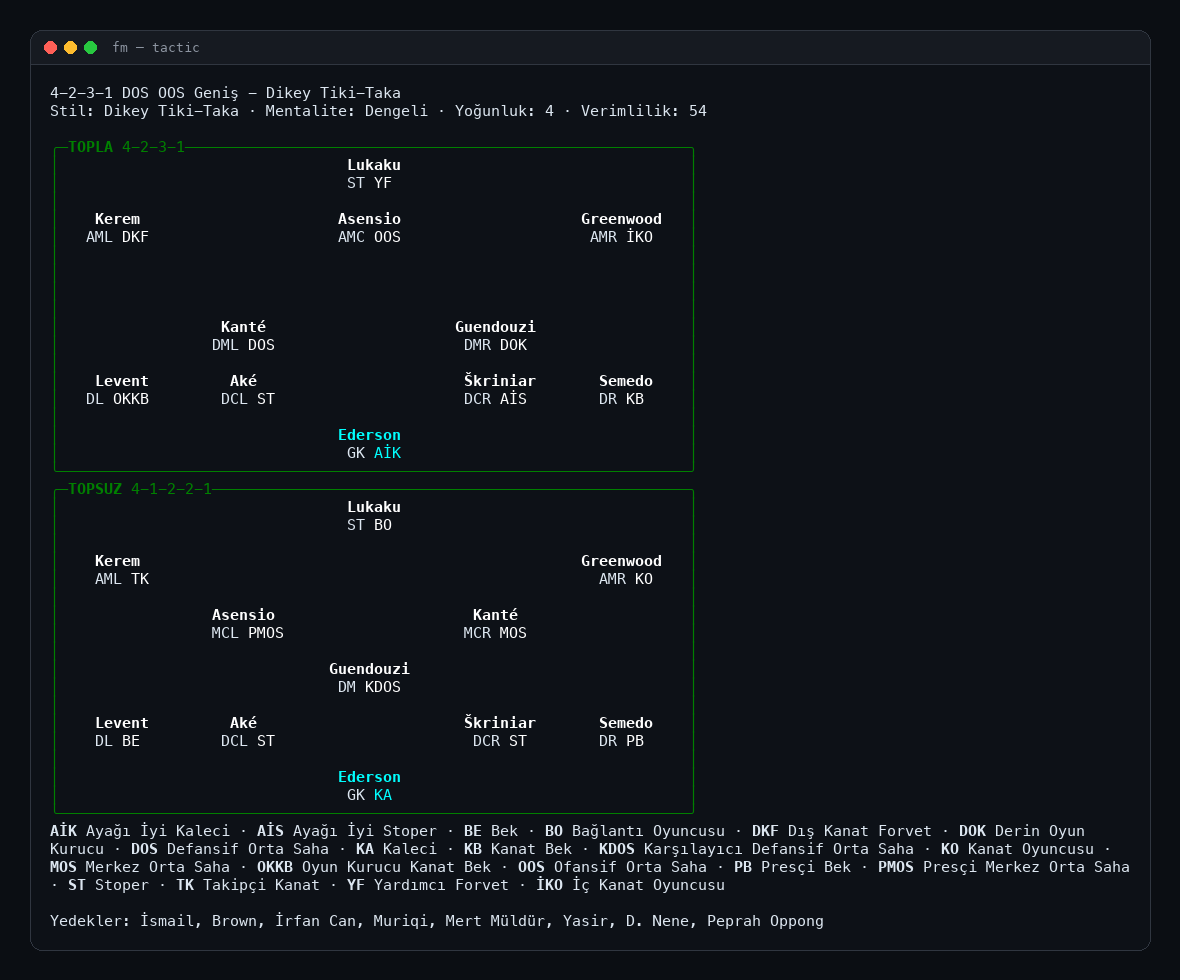
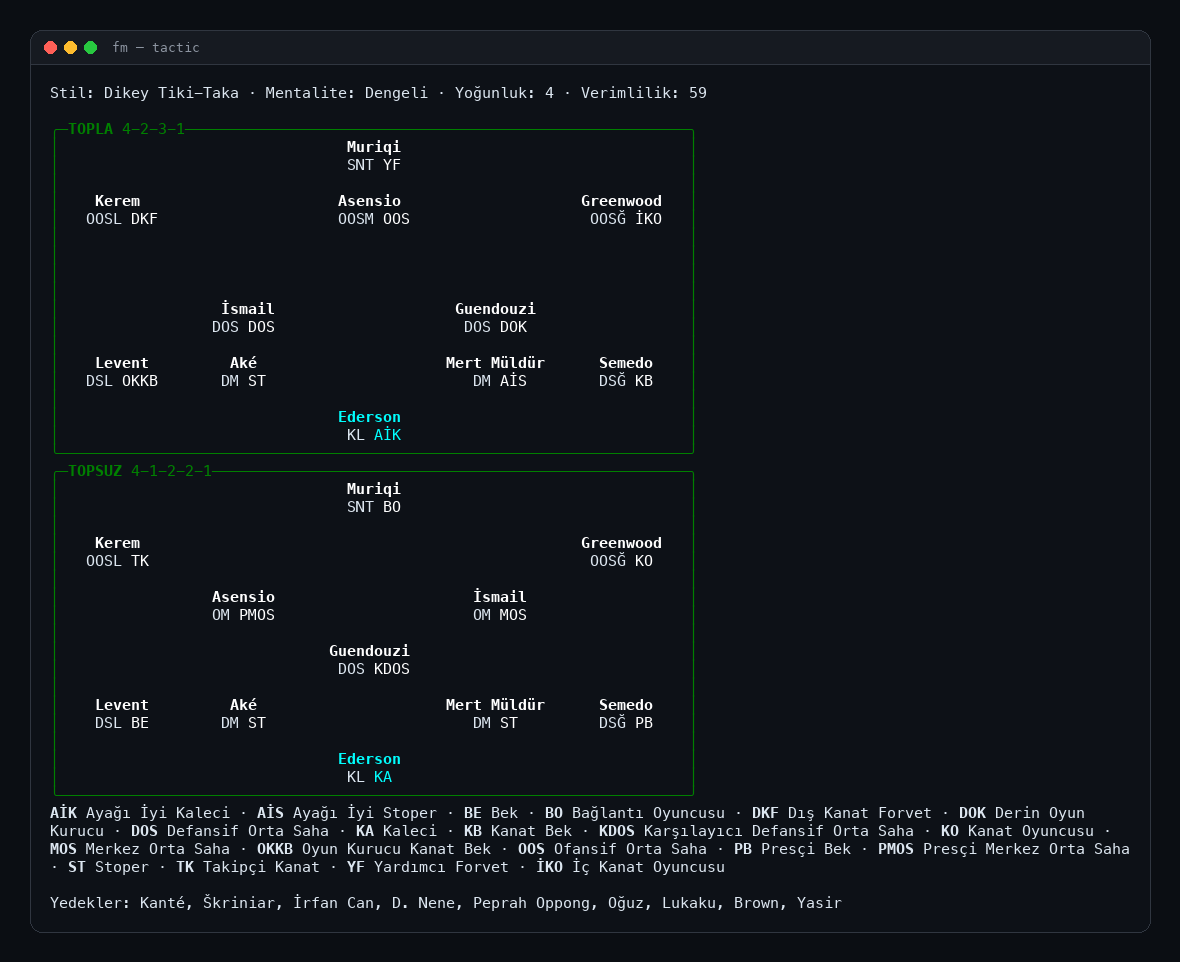
feat: tactic positions in the game's own codes, typed either way
The tactic table, the pitch, slot lists and player instructions show a position as the
game writes it (OOSM, DM; AMC, DCR in English). A paired slot's side has no code in the game
and is said in the CLI's words ("DM (sağ)"); the pitch leaves it to the lane. Positions are
typed in the game's code first, then the English one, or by number: "DM" in a Turkish game
is the two centre-backs. Game codes are kept out of the line translation, which had turned
the Turkish "DM" into "DOS"; the phase words, fixed Turkish before, go through labels.

diff --git a/cli/fm/Match/Guided.TacticSettings.cs b/cli/fm/Match/Guided.TacticSettings.cs
@@ -94,16 +94,17 @@ internal static partial class Program
 		{
 			var roleField = withoutBall ? "OOPRoleName" : "IPRoleName";
 			if (Ui.Ask(L("Which position?"), SlotLabels(slots, roleField)) is not { } asked) return 0;
-			words.Add(spots[asked]);
+			words.Add((asked + 1).ToString());
 		}
+		var masks = slots.Select(s => Field(s, "IPPosition")).ToList();
 		if (words.Count == 0)
 		{
-			Console.Error.WriteLine(L($"usage: tactic role <position> [<role>] [--oop]   positions: {string.Join(" ", spots)}"));
+			Console.Error.WriteLine(L($"usage: tactic role <position> [<role>] [--oop]   positions: {string.Join(" ", masks.Select(m => SpotShown(m)))}"));
 			return 64;
 		}
 
-		if (Choose(spots, words[0], L("Position")) is not { } spot) return 1;
-		var at = spots.IndexOf(spot);
+		if (SlotOf(masks, words[0], L("Position")) is not { } at) return 1;
+		var spot = SpotShown(masks[at]);
 
 		List<JsonElement> lists = [];
 		await Until(async () =>
@@ -153,7 +154,7 @@ internal static partial class Program
 			return 1;
 		}
 
-		var phase = withoutBall ? "topsuz" : "topla";
+		var phase = withoutBall ? L("out of possession") : L("in possession");
 		if (words.Count < 2 && Ui.Interactive)
 		{
 			if (Ui.Ask(L($"Role of {spot} ({phase})"), roles, roles.IndexOf(current)) is not { } asked) return 0;
@@ -319,6 +320,57 @@ internal static partial class Program
 		if ((bits & 1048576) != 0) name += "L";
 		if ((bits & 2097152) != 0) name += "R";
 		return name;
+	}
+
+	/// <summary>
+	/// A pitch position as the game writes it in its language ("OOSM"), by the engine's own codes
+	/// (<see cref="EngineTexts.Positions"/>, read before). The game's codes do not say which side of
+	/// centre a paired slot stands on (DCL, DCR, STL…); that is said in the CLI's own words. In an
+	/// English game, or before the codes are read, the CLI's code as it always was. On the pitch the
+	/// lane says the side, and <paramref name="side"/> leaves it out.
+	/// </summary>
+	internal static string SpotShown(string mask, bool side = true)
+	{
+		var known = EngineTexts.KnownPositions;
+		if (known.Count == 0 || !long.TryParse(mask, out var bits)) return Spot(mask);
+		var left = (bits & (1048576 | 65536)) != 0;
+		var right = (bits & (2097152 | 32768)) != 0;
+		var central = bits & ~(1048576L | 2097152L);
+		if ((central & (32768 | 65536)) != 0) central = (central & ~(32768L | 65536L)) | 16384;
+		var code = Spot(central.ToString(System.Globalization.CultureInfo.InvariantCulture));
+		var shown = known.GetValueOrDefault(code, code);
+		return !side ? shown : left ? shown + L(" (left)") : right ? shown + L(" (right)") : shown;
+	}
+
+	/// <summary>
+	/// The slot a typed position stands for: its number in the listing, the game's code as shown
+	/// ("OOSM", "DM sağ"), the game's code of a pair when only one slot has it, else the CLI's English
+	/// code ("AMC", "DCR"). The game's words come first: "DM" is a centre-back in a Turkish game and a
+	/// defensive midfielder in English. Null, with the options said, when it stands for none or several.
+	/// </summary>
+	private static int? SlotOf(List<string> masks, string typed, string what, bool quiet = false)
+	{
+		static string Squash(string text) => new(Fold(text).Where(char.IsLetterOrDigit).ToArray());
+		var shown = masks.Select(m => SpotShown(m)).ToList();
+		var english = masks.Select(Spot).ToList();
+		var wanted = Squash(typed);
+		if (int.TryParse(typed, out var number) && number >= 1 && number <= masks.Count) return number - 1;
+		if (shown.FindIndex(s => Squash(s) == wanted) is >= 0 and var exact) return exact;
+		// The game's code of a pair: "DM" is both centre-backs.
+		var known = EngineTexts.KnownPositions;
+		var paired = Enumerable.Range(0, masks.Count).Where(i => known.Count > 0 && Squash(known.GetValueOrDefault(Spot(Central(masks[i])), "")) == wanted).ToList();
+		if (paired.Count == 1) return paired[0];
+		if (paired.Count == 0 && english.FindIndex(s => Squash(s) == wanted) is >= 0 and var code) return code;
+		var close = paired.Count > 1 ? paired : Enumerable.Range(0, masks.Count).Where(i => Squash(shown[i]).StartsWith(wanted, StringComparison.Ordinal) && wanted.Length > 0).ToList();
+		if (close.Count == 1) return close[0];
+		if (quiet) return null;
+		Console.Error.WriteLine(close.Count == 0 ? L($"{what}: there is no option '{typed}'. Options:") : L($"{what}: '{typed}' matches more than one option:"));
+		foreach (var i in close.Count == 0 ? Enumerable.Range(0, masks.Count) : close) Console.Error.WriteLine($"  {shown[i]}");
+		return null;
+
+		static string Central(string mask) => long.TryParse(mask, out var b)
+			? ((b & (32768 | 65536)) != 0 ? (b & ~(32768L | 65536L | 1048576L | 2097152L)) | 16384 : b & ~(1048576L | 2097152L)).ToString(System.Globalization.CultureInfo.InvariantCulture)
+			: mask;
 	}
 
 	/// <summary>Where a slot stands as the pitch is read: its line from the goal, then right to left.</summary>

diff --git a/cli/fm/Match/Guided.Tactic.cs b/cli/fm/Match/Guided.Tactic.cs
@@ -17,6 +17,8 @@ internal static partial class Program
 
 		var dry = args.Contains("--dry");
 		var wanted = words.Count > 1 ? words[1] : null;
+		// Positions are shown, and may be typed, in the game's own codes.
+		await EngineTexts.Positions(Fm);
 
 		// During a match the planner's pages are gone; the match screen has its own list.
 		if (words.Count > 0 && words[0] == "mentality" && Field(await Fm.GetJson("state"), "DuringMatch") == "True")
@@ -93,9 +95,9 @@ internal static partial class Program
 
 		var rows = tactic.GetProperty("Slots").EnumerateArray().Select(slot => new[]
 		{
-			Spot(Field(slot, "IPPosition")),
+			SpotShown(Field(slot, "IPPosition")),
 			RoleOf(slot, withoutBall: false),
-			Spot(Field(slot, "OOPPosition")),
+			SpotShown(Field(slot, "OOPPosition")),
 			RoleOf(slot, withoutBall: true),
 			Field(slot, "Player") is { Length: > 0 } player ? player : "-",
 			rated ? Field(slot, "Effectiveness") is { Length: > 0 } score ? score : "-"
@@ -110,7 +112,7 @@ internal static partial class Program
 
 	/// <summary>"AMR   Asensio · Inside Forward": a slot as it reads in a list to choose from.</summary>
 	private static List<string> SlotLabels(List<JsonElement> slots, string roleField) =>
-		slots.Select(s => $"{Spot(Field(s, "IPPosition")),-4}  {(Field(s, "Player") is { Length: > 0 } p ? p : "—")} · {RoleOf(s, roleField == "OOPRoleName")}").ToList();
+		slots.Select(s => $"{SpotShown(Field(s, "IPPosition")),-4}  {(Field(s, "Player") is { Length: > 0 } p ? p : "—")} · {RoleOf(s, roleField == "OOPRoleName")}").ToList();
 
 	/// <summary>After a change, the pitch with what changed marked, for someone at a terminal.</summary>
 	private static async Task ShowChange(HashSet<(int, bool)> changed)
@@ -170,20 +172,28 @@ internal static partial class Program
 		if (words.Count == 0 && Ui.Interactive && squad.Count > 0)
 		{
 			if (Ui.Ask(L("Which position?"), SlotLabels(slots, "IPRoleName")) is not { } slotAsked) return 0;
-			words.Add(spots[slotAsked]);
+			words.Add((slotAsked + 1).ToString());
 		}
+		var masks = slots.Select(s => Field(s, "IPPosition")).ToList();
 		if (words.Count == 0)
 		{
-			Console.Error.WriteLine(L($"usage: tactic player <position> <player>   positions: {string.Join(" ", spots)}"));
+			Console.Error.WriteLine(L($"usage: tactic player <position> <player>   positions: {string.Join(" ", masks.Select(m => SpotShown(m)))}"));
 			if (squad.Count > 0) Console.Error.WriteLine(L($"substitutes: {string.Join(", ", benchNames)}"));
 			return 64;
 		}
 
 		// A substitute's place has no position, so it goes by who is in it now: "tactic player Tosto
 		// Nabian" took an injured man off the bench, which the game will not start a match with.
-		if (Choose([.. spots, .. benchNames], words[0], L("Position")) is not { } spot) return 1;
-		var at = spots.IndexOf(spot);
-		var place = at >= 0 ? slots[at] : squad[benchNames.IndexOf(spot)];
+		var at = SlotOf(masks, words[0], L("Position"), quiet: true) ?? -1;
+		var benched = at >= 0 ? -1 : Matching(benchNames, n => n, words[0]) is [var one] ? benchNames.IndexOf(one) : -1;
+		if (at < 0 && benched < 0)
+		{
+			SlotOf(masks, words[0], L("Position"));
+			if (benchNames.Count > 0) Console.Error.WriteLine(L($"substitutes: {string.Join(", ", benchNames)}"));
+			return 1;
+		}
+		var spot = at >= 0 ? SpotShown(masks[at]) : benchNames[benched];
+		var place = at >= 0 ? slots[at] : squad[benched];
 		var slot = Field(place, at >= 0 ? "TeamSelectionIndex" : "Index");
 		var current = Field(place, at >= 0 ? "Player" : "Name");
 		var label = at >= 0 ? spot : L("bench");
@@ -200,7 +210,7 @@ internal static partial class Program
 		{
 			if (!Ui.Interactive)
 			{
-				Console.Error.WriteLine(L($"usage: tactic player <position> <player>   positions: {string.Join(" ", spots)}"));
+				Console.Error.WriteLine(L($"usage: tactic player <position> <player>   positions: {string.Join(" ", masks.Select(m => SpotShown(m)))}"));
 				return 64;
 			}
 			if (Ui.Ask(L($"Who plays {label}?"), names) is not { } asked) return 0;

diff --git a/cli/fm/Squad/TeamInstructions.Player.cs b/cli/fm/Squad/TeamInstructions.Player.cs
@@ -24,7 +24,7 @@ internal static partial class Program
 			return 64;
 		}
 		// A slot by its position as the pitch shows it, or by the player in it.
-		var slot = slots.FirstOrDefault(s => Fold(s.Spot) == Fold(words[0]));
+		var slot = SlotOf(slots.Select(s => s.Mask).ToList(), words[0], L("Position"), quiet: true) is { } at ? slots[at] : null;
 		if (slot == null)
 		{
 			var byName = Matching(slots, s => s.Player, words[0]);
@@ -151,7 +151,7 @@ internal static partial class Program
 		return scopes;
 	}
 
-	private sealed record PiSlot(string Spot, string Index, string Player, string Role, string RoleWithoutBall);
+	private sealed record PiSlot(string Spot, string Index, string Player, string Role, string RoleWithoutBall, string Mask = "");
 
 	/// <summary>
 	/// The eleven slots with the player in each, read from the tactic with no page,
@@ -160,9 +160,10 @@ internal static partial class Program
 	/// </summary>
 	private static async Task<List<PiSlot>> PiSlots()
 	{
+		await EngineTexts.Positions(Fm);
 		var scopes = await SlotScopes();
 		var read = await PullEach(scopes.Select(s => ($"{TacticAt(s)}", "IPPosition,PlayerFromTeamSelectionIndex.Name")).ToList());
-		var slots = read.Select((r, i) => new PiSlot(Spot(Field(r, "IPPosition")), i.ToString(), Field(r, "PlayerFromTeamSelectionIndex.Name"), "", ""))
+		var slots = read.Select((r, i) => new PiSlot(SpotShown(Field(r, "IPPosition")), i.ToString(), Field(r, "PlayerFromTeamSelectionIndex.Name"), "", "", Field(r, "IPPosition")))
 			.Where(s => Field(read[int.Parse(s.Index)], "IPPosition") is { Length: > 0 } mask && mask != "0").ToList();
 		if (slots.Count == 0 || Field(await Fm.GetJson("state"), "DuringMatch") == "True") return slots;
 

diff --git a/cli/fm/Core/GameWords.cs b/cli/fm/Core/GameWords.cs
@@ -11,6 +11,18 @@ internal static class GameWords
 {
 	private static readonly Dictionary<string, string> words = new(StringComparer.Ordinal);
 
+	/// <summary>Texts the CLI already has in the game's words, which a line must not put in them twice.</summary>
+	private static readonly HashSet<string> kept = new(StringComparer.Ordinal);
+
+	/// <summary>
+	/// Marks texts as the game's own words already, so a line leaves them be: a Turkish position code
+	/// can be an English one ("DM" is a centre-back in Turkish, a defensive midfielder in English).
+	/// </summary>
+	public static void Keep(IEnumerable<string> shown)
+	{
+		foreach (var text in shown) kept.Add(text);
+	}
+
 	/// <summary>Takes in the pairs an answer came with: base64 of "english\tshown" lines.</summary>
 	public static void Learn(string? header)
 	{
@@ -106,7 +118,7 @@ internal static class GameWords
 			var part = parts[i];
 			var core = part.Trim();
 			// A single letter inside a line is a code ("D (M)"), not one of the game's words.
-			if (core.Length < 2 || !words.TryGetValue(core, out var shown)) continue;
+			if (core.Length < 2 || kept.Contains(core) || !words.TryGetValue(core, out var shown)) continue;
 			parts[i] = part.Replace(core, shown);
 			carry = shown.Length - core.Length;
 			changed = true;

diff --git a/cli/fm/Core/EngineTexts.cs b/cli/fm/Core/EngineTexts.cs
@@ -92,6 +92,9 @@ internal static class EngineTexts
 
 	private static Dictionary<string, string>? positions;
 
+	/// <summary>The codes <see cref="Positions"/> has read in this run; empty until then, and in an English game.</summary>
+	public static IReadOnlyDictionary<string, string> KnownPositions => positions ?? [];
+
 	/// <summary>
 	/// The game's codes for the pitch positions in its language, by the English ones ("AMC" → "OOSM"); empty in
 	/// an English game. A code whose id no longer holds that code in the English block (a game update moved it)
@@ -116,6 +119,7 @@ internal static class EngineTexts
 		{
 			foreach (var line in File.ReadAllLines(target))
 				if (line.Split('\t') is [var code, var shown]) positions[code] = shown;
+			GameWords.Keep(positions.Values);
 			return positions;
 		}
 		try
@@ -135,6 +139,7 @@ internal static class EngineTexts
 			await File.WriteAllTextAsync(stamp, from);
 		}
 		catch (Exception) { positions.Clear(); }
+		GameWords.Keep(positions.Values);
 		return positions;
 	}
 

diff --git a/cli/fm/Core/Pitch.cs b/cli/fm/Core/Pitch.cs
@@ -57,7 +57,7 @@ internal static class Pitch
 			if (Place(mask) is not var (line, lane)) continue;
 
 			var player = Field(slots[i], "Player") is { Length: > 0 } name ? Ui.Fit(name, Cell) : "—";
-			var spot = Program.Spot(mask);
+			var spot = Program.SpotShown(mask, side: false);
 			var role = Short(Program.RoleOf(slots[i], withoutBall));
 			var colour = changed.Contains((i, withoutBall)) ? "yellow" : line == Lines - 1 ? "aqua" : "white";
 

diff --git a/cli/fm/Match/MatchDay.cs b/cli/fm/Match/MatchDay.cs
@@ -35,6 +35,7 @@ internal static partial class Program
 	{
 		try
 		{
+			await EngineTexts.Positions(Fm);
 			var tactic = await Fm.GetJson("tactic");
 			if (!tactic.TryGetProperty("Slots", out var slots)) return;
 			var shape = slots.EnumerateArray()

diff --git a/docs/PORTING.md b/docs/PORTING.md
@@ -651,6 +651,13 @@ Still open:
     ability, interest, value, wage, matches watched, best role, pros/cons (`ScoutedProConsList.ProsList/ConsList`),
     squad comparison (`ScoutedSquadComparisonPlayers`: `Ranking`, `Player.Name`), all in the game's words. Was labels
     ("Transfer Interest", "Negatives") and order. TR + EN: three scouted players, our own (the staff's view), unscouted.
+  - [x] Tactic positions in the game's codes: `tactic`, `tactic role/player/pi`, the pitch and slot lists show
+    `SpotShown` (engine codes, as the match list); a paired slot's side, which the game's codes lack, in the CLI's
+    words ("DM (sağ)"), left out on the pitch where the lane says it. Input takes the game's code first ("DM" is
+    both Turkish centre-backs, asked which), then the English one ("AMC", "DCR"), or the number. The line writer
+    leaves those codes be (`GameWords.Keep`): "DM" was being put into Turkish a second time as "DOS". The phase
+    words were fixed Turkish ("topla"); now labels. TR + EN: role/player/pi by Turkish, English, paired, wrong code,
+    bench name, number; English output unchanged.
   - [x] `penalties`: FM26's "Starting at …" / "On Subs bench" reading (and its fixed Turkish "ilk 11") removed; FM27
     gives no line there, the eleven comes from the tactic's slots. TR + EN.
   - [x] `fm stop` (`Core/Launcher.cs`): the quit question by its `Type` (`QuitGameDialog`) and the button sending
